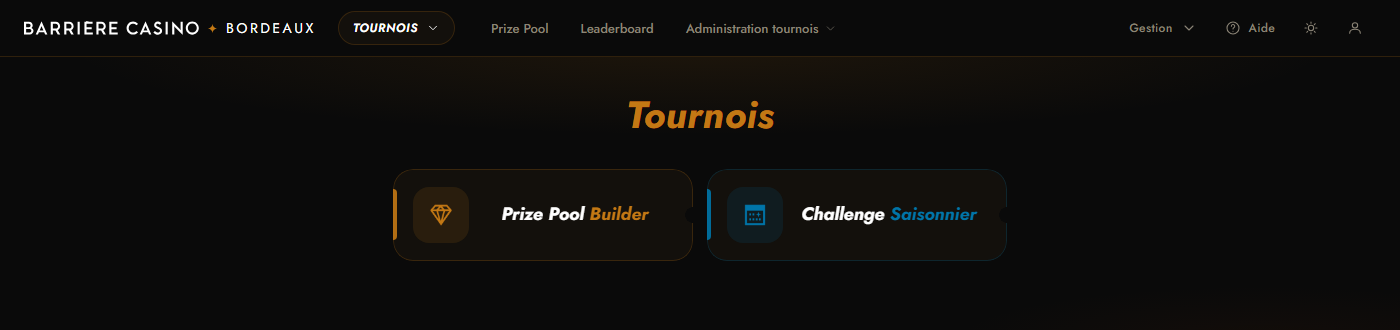
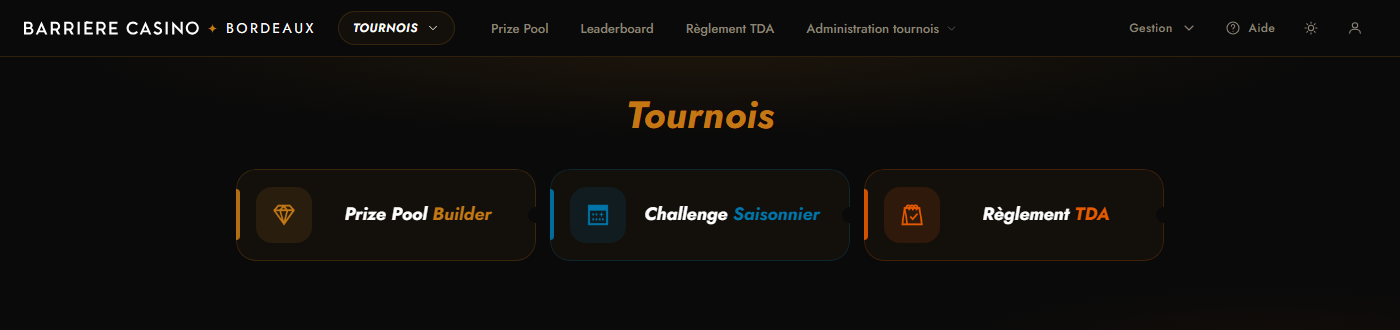
feat(aide): guides du reglement TDA
Deux guides (consulter le reglement, rechercher) et deux entrees de depannage
dans l'espace Tournois, bouton ? de la page TDA, captures generees avec une
edition fictive (aucun texte du vrai reglement dans le depot public).
Captures de l'accueil Tournois et du menu refaites (nouvelle tuile et entree de barre).

Changed region(s): [[0.1536, 0.5455, 0.7986, 0.7576], [0.4914, 0.0606, 0.6757, 0.1212]]

diff --git a/aide/aide_guides.js b/aide/aide_guides.js
@@ -21,19 +21,20 @@ var AIDE_GUIDES = [
   {
     id: 'tournois-pour-commencer', space: 'tournois', panel: 'tournois',
     title: 'Pour commencer',
-    intro: "L'espace Tournois réunit les outils des tournois de poker : le calcul du prize pool, le challenge saisonnier et, pour les personnes qui en ont l'accès, l'administration (déclarations, courriers, extras, calendrier).",
+    intro: "L'espace Tournois réunit les outils des tournois de poker : le calcul du prize pool, le challenge saisonnier, le règlement TDA et, pour les personnes qui en ont l'accès, l'administration (déclarations, courriers, extras, calendrier).",
     steps: [
       {
-        title: "Les deux outils de l'espace",
-        text: "<p>La page d'accueil de l'espace propose deux outils.</p><ul>"
+        title: "Les outils de l'espace",
+        text: "<p>La page d'accueil de l'espace propose trois outils.</p><ul>"
           + "<li><b>Prize Pool Builder</b> : prépare la répartition des gains d'un tournoi et imprime le tableau.</li>"
-          + "<li><b>Challenge Saisonnier</b> : saisit les résultats de chaque tournoi et tient le classement de la saison.</li></ul>"
+          + "<li><b>Challenge Saisonnier</b> : saisit les résultats de chaque tournoi et tient le classement de la saison.</li>"
+          + "<li><b>Règlement TDA</b> : le règlement du Poker TDA, à consulter et à interroger par une recherche.</li></ul>"
           + "<p>Vous ne voyez que les outils auxquels votre compte donne accès.</p>",
         imgs: [{ src: 'captures/tn_accueil.png', alt: "La page d'accueil de l'espace Tournois" }],
       },
       {
         title: "La barre de navigation",
-        text: "<p>Dans la barre du haut, <b>Prize Pool</b> et <b>Leaderboard</b> ouvrent les deux outils. Le menu <b>Administration tournois</b> regroupe quatre pages : <b>Déclarations</b>, <b>Générateur de courrier</b>, <b>Gestion des Extras</b> et <b>Calendrier &amp; barèmes</b>.</p>"
+        text: "<p>Dans la barre du haut, <b>Prize Pool</b>, <b>Leaderboard</b> et <b>Règlement TDA</b> ouvrent les trois outils. Le menu <b>Administration tournois</b> regroupe quatre pages : <b>Déclarations</b>, <b>Générateur de courrier</b>, <b>Gestion des Extras</b> et <b>Calendrier &amp; barèmes</b>.</p>"
           + "<p>Le bouton <b>Aide</b> ouvre le guide de la page où vous êtes.</p>",
         imgs: [{ src: 'captures/tn_menu_admin.png', alt: "Le menu Administration tournois dans la barre de navigation" }],
       },
@@ -167,6 +168,80 @@ var AIDE_GUIDES = [
         title: "Consulter une autre saison",
         text: "<p>La saison court du 1er novembre au 31 octobre. Elle est reconnue toute seule d'après la date des résultats : la suivante démarre avec le premier tournoi daté du 1er novembre, et les points comme la cagnotte repartent de zéro.</p>"
           + "<p>À gauche de la barre d'onglets, un sélecteur permet de revenir sur les saisons précédentes (elles apparaissent dès qu'elles ont des résultats). À côté, un libellé indique si la saison est en cours, terminée ou clôturée.</p>",
+        imgs: [],
+      },
+    ],
+  },
+
+  {
+    id: 'tournois-tda', space: 'tournois', panel: 'tda',
+    title: 'Consulter le règlement TDA',
+    intro: "Le règlement du Poker TDA est consultable dans l'application : les règles, les procédures recommandées et le glossaire, avec des renvois cliquables entre les règles. Sur les captures de ce guide, les textes sont des exemples fictifs.",
+    steps: [
+      {
+        title: "Ouvrir le règlement",
+        text: "<p>Dans la barre du haut, <b>Règlement TDA</b> ouvre la page (ou la tuile de l'accueil de l'espace Tournois). Trois onglets : <b>Règles</b>, <b>Procédures</b> et <b>Glossaire</b>.</p>"
+          + "<p>Le sommaire de l'onglet est à gauche : cliquez sur une règle pour la lire. La barre de recherche, sous les onglets, a son propre guide.</p>",
+        imgs: [{ src: 'captures/tda_sommaire.png', alt: "La page du règlement TDA avec les onglets, la recherche et le sommaire des règles" }],
+      },
+      {
+        title: "Lire une règle",
+        text: "<p>La règle s'affiche à droite, avec ses points repérés par une lettre (A, B, C...) et ses remarques sur un fond distinct. Les <b>exemples d'illustration</b> de la règle sont en dessous : cliquez sur un exemple pour le déplier.</p>"
+          + "<p>Les boutons <b>Précédente</b> et <b>Suivante</b>, en bas, passent à la règle voisine ; <b>Sommaire</b>, en haut, revient à la liste.</p>",
+        imgs: [{ src: 'captures/tda_regle.png', alt: "Une règle avec ses points, une remarque et un exemple d'illustration replié" }],
+      },
+      {
+        title: "Procédures et glossaire",
+        text: "<p>L'onglet <b>Procédures</b> contient les procédures recommandées par le TDA, lues de la même façon que les règles. L'onglet <b>Glossaire</b> explique les termes du jeu, classés par groupe.</p>",
+        imgs: [{ src: 'captures/tda_glossaire.png', alt: "L'onglet Glossaire, termes classés par groupe" }],
+      },
+      {
+        title: "Suivre un renvoi",
+        text: "<p>Quand un texte cite une autre règle (par exemple « règle 47-B »), la mention est soulignée en couleur : un clic ouvre cette règle et met en évidence le point cité. <b>Voir exemples</b> ouvre les exemples de la règle en cours.</p>"
+          + "<p>Le bouton « retour » de votre navigateur ramène à la règle d'où vous veniez.</p>",
+        imgs: [],
+      },
+      {
+        title: "Comprendre un terme",
+        text: "<p>Les mots du glossaire sont soulignés en pointillés dans le texte. Un clic affiche leur définition dans une bulle, avec un lien <b>Voir au glossaire</b>. Cliquez ailleurs ou appuyez sur Échap pour la fermer.</p>",
+        imgs: [{ src: 'captures/tda_terme.png', alt: "La définition d'un terme affichée dans une bulle" }],
+      },
+      {
+        title: "Un renvoi marqué d'un point d'interrogation",
+        text: "<p>Dans la traduction française, quelques renvois citent un numéro qui semble erroné. Ils sont signalés par un petit <b>?</b> : un clic explique le doute et propose la règle probable. En cas de doute sur un point, le texte officiel du TDA, en anglais, fait foi.</p>",
+        imgs: [{ src: 'captures/tda_renvoi.png', alt: "La bulle d'un renvoi à vérifier, avec un lien vers la règle probable" }],
+      },
+      {
+        title: "Sur téléphone et tablette",
+        text: "<p>La page s'adapte à l'écran. Sur un petit écran, le sommaire occupe toute la page : touchez une règle pour la lire, puis <b>Sommaire</b> pour revenir à la liste.</p>",
+        imgs: [{ src: 'captures/tda_mobile.png', alt: "Une règle affichée sur un écran de téléphone" }],
+      },
+    ],
+  },
+
+  {
+    id: 'tournois-tda-recherche', space: 'tournois', panel: 'tda',
+    title: 'Rechercher dans le règlement',
+    intro: "La barre de recherche du règlement TDA trouve un mot, une question ou un numéro de règle dans les règles, les procédures, les exemples et le glossaire.",
+    steps: [
+      {
+        title: "Lancer une recherche",
+        text: "<p>Tapez dans la barre <b>Rechercher un mot ou un numéro</b> (la touche <b>/</b> y amène le curseur). Les résultats s'affichent en direct, rangés par partie : <b>Règles</b>, <b>Procédures recommandées</b>, <b>Exemples d'illustration</b> et <b>Glossaire</b>. Les mots cherchés sont surlignés dans un extrait.</p>",
+        imgs: [{ src: 'captures/tda_recherche.png', alt: "Les résultats d'une recherche, rangés par partie, avec les mots surlignés" }],
+      },
+      {
+        title: "Aller directement à une règle",
+        text: "<p>Pour une règle dont vous connaissez le numéro, tapez-le : <b>45</b> ouvre la règle 45, <b>55-A</b> son point A, <b>RP-5</b> la procédure recommandée 5. Appuyez sur Entrée pour l'ouvrir.</p>",
+        imgs: [],
+      },
+      {
+        title: "Écrire comme on parle",
+        text: "<p>Les accents et les majuscules n'ont pas d'importance, et une petite faute de frappe est pardonnée. Les termes anglais usuels (raise, call, fold, all-in) retrouvent les règles écrites en français. Vous pouvez aussi taper une question entière : le règlement renvoie les règles qui contiennent le plus de vos mots.</p>",
+        imgs: [],
+      },
+      {
+        title: "Ouvrir un résultat et revenir",
+        text: "<p>Cliquez sur un résultat (ou appuyez sur Entrée pour ouvrir le premier) : la règle s'ouvre avec vos mots surlignés. Le bouton « retour » du navigateur revient aux résultats. <b>Échap</b> efface la recherche.</p>",
         imgs: [],
       },
     ],
@@ -383,6 +458,16 @@ var AIDE_GUIDES = [
       {
         title: "La déclaration est vide ou incomplète",
         text: "<p>Ouvrez <b>Réglages</b> : un jour décoché dans <b>Actif</b> n'apparaît pas. Pour un tournoi exceptionnel ou une annulation, passez par <b>Ajout/Modifications</b>. Un total des annexes différent de 100 % s'affiche en rouge dans l'onglet Annexes.</p>",
+        imgs: [],
+      },
+      {
+        title: "Le règlement TDA ne se charge pas",
+        text: "<p>« Le règlement n'a pas pu être chargé » : vérifiez la connexion, puis rechargez la page. Si le message « Aucune édition du règlement n'est disponible » s'affiche, prévenez l'administrateur : le texte n'est pas activé.</p>",
+        imgs: [],
+      },
+      {
+        title: "La recherche du règlement ne trouve rien",
+        text: "<p>Essayez un mot plus court ou le numéro de la règle (par exemple <b>45</b>). Les accents et les majuscules n'ont pas d'importance. Le guide « Rechercher dans le règlement » détaille ce que la recherche comprend.</p>",
         imgs: [],
       },
       {

diff --git a/aide/outils/donnees_fictives.js b/aide/outils/donnees_fictives.js
@@ -176,4 +176,52 @@ function entrainement() {
   return { croupiers: croupiers.map(function (c) { return { id: c.id, label: c.label }; }), sessions: sessions };
 }
 
-module.exports = { planning: planning, octimeTsv: octimeTsv, entrainement: entrainement, joueurs: joueurs, saison: saison, extras: extras, encadrement: encadrement, courriersGabarits: courriersGabarits };
+/** Règlement TDA fictif pour les captures : AUCUN texte du vrai règlement (le dépôt est public). Format de la table tda_blocs.
+ *  Dans un texte, {r3/B|règle 3-B} devient un renvoi (cible r3, point B) dont le libellé est « règle 3-B ». */
+function tda() {
+  const el = function (t, n, texte, extra) {
+    let out = '', renvois = [], pos = 0, m;
+    const re = /\{([a-z0-9_]+)(?:\/([A-Z]))?\|([^}]+)\}/g;
+    while ((m = re.exec(texte))) {
+      out += texte.slice(pos, m.index); const a = out.length; out += m[3];
+      const r = { a: a, b: out.length, cible: m[1], sous: m[2] || null };
+      if (extra && extra.verifier) r.verifier = extra.verifier;
+      renvois.push(r); pos = m.index + m[0].length;
+    }
+    out += texte.slice(pos);
+    const e = { t: t, texte: out }; if (n) e.n = n; if (renvois.length) e.renvois = renvois;
+    return e;
+  };
+  const regle = function (num, section, titre, elements) { return { id: 'r' + num, kind: 'regle', numero: String(num), section: section, titre: titre, ordre: num, data: { elements: elements } }; };
+  const blocs = [
+    regle(1, 's1', 'Exemple de règle simple', [el('p', null, "Texte d'exemple pour illustrer une règle courte. Il n'a aucune valeur : seul le règlement officiel fait foi.")]),
+    regle(2, 's1', 'Exemple de règle avec renvoi', [
+      el('pt', 'A', "Texte d'exemple : une phrase peut renvoyer à une autre règle, comme ici la {r3/B|règle 3-B}. Un clic sur le renvoi ouvre la règle et surligne le point."),
+      el('pt', 'B', "Un mot du glossaire, comme blind ou tapis, est souligné : un clic affiche sa définition."),
+    ]),
+    regle(3, 's2', 'Exemple de règle en plusieurs points', [
+      el('pt', 'A', "Premier point d'exemple, à lire avec la {r2/A|règle 2-A}. Voir exemples."),
+      el('pt', 'B', "Deuxième point d'exemple : le joueur annonce son action avant le flop. Les points sont repérés par une lettre."),
+      el('note', null, "Note d'exemple : les remarques du règlement sont présentées sur un fond distinct."),
+      el('pt', 'C', "Troisième point d'exemple, avec un showdown fictif."),
+    ]),
+    regle(4, 's2', 'Exemple de règle avec renvoi à vérifier', [
+      el('p', null, "Texte d'exemple : ce renvoi vers la {r1|règle 1}", { verifier: { note: "Le numéro cité dans la traduction semble erroné : ce renvoi est signalé pour vérification.", attendu: 'r3' } }),
+    ]),
+    { id: 'ex_3_1', kind: 'exemple', numero: '3', section: 'ex', titre: "Exemple d'illustration de la règle 3", ordre: 20, data: { regle: '3', elements: [el('p', null, "Exemple fictif : joueur-A annonce son action, joueur-B répond. Les exemples se replient et se déplient.")] } },
+    { id: 'rp_intro', kind: 'rp_intro', numero: '', section: 'rp', titre: 'Procédures recommandées (exemple)', ordre: 30, data: { elements: [el('p', null, "Texte d'introduction fictif des procédures recommandées. Voir la {r1|règle 1}.")] } },
+    { id: 'rp1', kind: 'rp', numero: 'RP-1', section: 'rp', titre: 'Exemple de procédure', ordre: 31, data: { elements: [el('p', null, "Texte d'exemple d'une procédure recommandée."), el('pt', 'A', "Premier point d'exemple de la procédure."), el('pt', 'B', "Second point d'exemple de la procédure.")] } },
+    { id: 'rp2', kind: 'rp', numero: 'RP-2', section: 'rp', titre: "Autre exemple de procédure", ordre: 32, data: { elements: [el('p', null, "Autre texte d'exemple, à la suite de la première procédure.")] } },
+  ];
+  const termes = [['Blind', 'Mise forcée posée avant la distribution.'], ['Flop', 'Les trois premières cartes communes.'], ['Showdown', 'Abattage des mains en fin de partie.'], ['Tapis', 'Mise de tous ses jetons (all-in).']];
+  termes.forEach(function (t, i) { blocs.push({ id: 'g_' + (i + 1), kind: 'glossaire', numero: '', section: 'gl', titre: t[0], ordre: 40 + i, data: { groupe: 'Termes de jeu', definition: t[1] } }); });
+  return {
+    edition: { id: 'exemple', libelle: "Règles d'exemple", date_publication: '2026-01-01', traduction: 'Traducteur fictif', active: true,
+      introduction: "Édition fictive : ces textes illustrent l'aide, ils ne sont pas ceux du règlement.",
+      mention: 'TDA rules used by permission of the Poker TDA, Copyright 2026, http://www.pokertda.com, All rights reserved.',
+      sections: [{ id: 's1', titre: 'Concepts généraux', ordre: 1 }, { id: 's2', titre: 'Mises et relances', ordre: 2 }] },
+    blocs: blocs,
+  };
+}
+
+module.exports = { tda: tda, planning: planning, octimeTsv: octimeTsv, entrainement: entrainement, joueurs: joueurs, saison: saison, extras: extras, encadrement: encadrement, courriersGabarits: courriersGabarits };

diff --git a/aide/outils/captures.js b/aide/outils/captures.js
@@ -72,6 +72,11 @@ getTrainingRanking:async function(g,lv,min){var rows=U.map(function(c){var l=of(
 getTrainingTablesBest:async function(r){return U.map(function(c){var l=of(c.id,'roulette-tables').filter(function(s){return !r||s.meta.ratio===r});if(!l.length)return null;var ok=l.filter(function(s){return s.correct===s.total});
  return{user_id:c.id,user_label:c.label,best_ms:ok.length?Math.min.apply(null,ok.map(function(s){return s.meta.elapsedMs})):null,perfect_runs:ok.length,sessions:l.length,last_at:l[0].started_at}}).filter(Boolean).sort(function(a,b){return (a.best_ms===null)-(b.best_ms===null)||a.best_ms-b.best_ms})},
 getTrainingWeakPoints:async function(g,u){return(WEAK[g]||[]).map(function(r){return{facet:r[0],value:r[1],attempts:r[2],errors:r[3]}})}};})();</script>`;
+// Règlement TDA : édition fictive (aucun texte du vrai règlement dans le dépôt public), administrateur ; rien n'est écrit
+const isTda = function (c) { return c.page.indexOf('tda/') === 0; };
+const BASE_TDA = `<script>(function(){var D=${JSON.stringify(data.tda())};var nop=async function(){};
+window.SB={getSession:async function(){return{user:{id:'u',email:'demo@example.com',user_metadata:{role:'admin',first_name:'Démo',last_name:'Fictif'},app_metadata:{role:'admin'}}}},getRoles:async function(){return[]},signOut:nop,
+getTdaActive:async function(){return JSON.parse(JSON.stringify({edition:D.edition,blocs:D.blocs}))}};})();</script>`;
 // Tirage aléatoire fixé (graine propre à chaque capture) : les questions affichées sont toujours les mêmes
 const SEED = function (n) { return `<script>(function(){var a=${n};Math.random=function(){a|=0;a=a+0x6D2B79F5|0;var t=Math.imul(a^a>>>15,1|a);t=t+Math.imul(t^t>>>7,61|t)^t;return((t^t>>>14)>>>0)/4294967296}})();</script>`; };
 
@@ -192,11 +197,23 @@ const CAPTURES_TR = [
 ];
 CAPTURES.push.apply(CAPTURES, CAPTURES_TR);
 
+// ── Règlement TDA (texte fictif) ──
+const CAPTURES_TDA = [
+  { nom: 'tda_sommaire', page: 'tda/tda.html', w: 1180, h: 760, actions: '', css: '*{transition:none!important}' },
+  { nom: 'tda_regle', page: 'tda/tda.html', w: 1180, h: 800, actions: "location.hash='#r3';", css: NU },
+  { nom: 'tda_terme', page: 'tda/tda.html', w: 1180, h: 470, actions: "location.hash='#r2';setTimeout(function(){document.querySelector('.td-terme').click()},500);", css: NU },
+  { nom: 'tda_renvoi', page: 'tda/tda.html', w: 1180, h: 470, actions: "location.hash='#r4';setTimeout(function(){document.querySelector('.td-verif').click()},500);", css: NU },
+  { nom: 'tda_recherche', page: 'tda/tda.html', w: 1180, h: 760, actions: "location.hash='#q=exemple';var q=document.getElementById('td-q');q.value='exemple';", css: NU },
+  { nom: 'tda_glossaire', page: 'tda/tda.html', w: 1180, h: 560, actions: "location.hash='#glossaire';", css: NU },
+  { nom: 'tda_mobile', page: 'tda/tda.html', w: 390, h: 820, actions: "location.hash='#r3';", css: NU },
+];
+CAPTURES.push.apply(CAPTURES, CAPTURES_TDA);
+
 function buildPage(c) {
   let h = fs.readFileSync(path.join(ROOT, c.page), 'utf8');
   h = h.replace(/<script src="https:\/\/cdn\.jsdelivr\.net\/npm\/@supabase\/supabase-js@2"><\/script>\s*/, '')
-    .replace(/<script src="[^"]*supabase\.js"><\/script>/, function () { return c.page.indexOf('break_list/') === 0 ? BASE : isTr(c) ? BASE_TR : BASE_TN; })
-    .replace('<head>', '<head><script>history.replaceState(null,"","/' + c.page + '");</script>' + FIGE + (c.page.indexOf('break_list/') === 0 ? '' : isTr(c) ? SEED(c.seed || 7) : SEED_TN))   // l'adresse reprend le vrai nom de la page : la barre reconnaît l'espace courant
+    .replace(/<script src="[^"]*supabase\.js"><\/script>/, function () { return c.page.indexOf('break_list/') === 0 ? BASE : isTr(c) ? BASE_TR : isTda(c) ? BASE_TDA : BASE_TN; })
+    .replace('<head>', '<head><script>history.replaceState(null,"","/' + c.page + '");</script>' + FIGE + (c.page.indexOf('break_list/') === 0 || isTda(c) ? '' : isTr(c) ? SEED(c.seed || 7) : SEED_TN))   // l'adresse reprend le vrai nom de la page : la barre reconnaît l'espace courant
     .replace('</head>', '<style>' + c.css + '</style></head>')
     .replace('</body>', '<script>window.addEventListener("load",function(){setTimeout(function(){' + c.actions + '},900)});</script></body>');
   const file = path.join(path.dirname(path.join(ROOT, c.page)), '_qa_aide_' + c.nom + '.html');

diff --git a/shared/nav.js b/shared/nav.js
@@ -104,6 +104,7 @@ const NAV = (function () {
     'tournois': 'tournois-pour-commencer',
     'prize_pool/prize_pool.html': 'tournois-prize-pool',
     'leaderboard/leaderboard.html': 'tournois-classement',
+    'tda/tda.html': 'tournois-tda',
     'admin/declaration/declaration.html': 'tournois-declaration',
     'admin/declaration/courriers.html': 'tournois-courriers',
     'admin/extras/extras.html': 'tournois-extras',

diff --git a/CONTEXT.md b/CONTEXT.md
@@ -321,7 +321,9 @@ Le règlement du Poker TDA (bible des règles du tournoi de poker, mise à jour 
 - **Consultation (étape 2, `tda/tda.html`)** : trois onglets `.seg` (Règles, Procédures, Glossaire). Tout est dans le hash : `#r45` (règle), `#r47/B` (point B, surligné), `#r45/exemples` (ouvre les exemples), `#rp5`, `#g_8` (terme), `#regles` / `#procedures` / `#glossaire`. Ordinateur (≥ 900 px) : sommaire fixe à gauche, texte à droite ; téléphone et tablette : le sommaire occupe l'écran, une règle ouverte le remplace avec un bouton « Sommaire ». Exemples d'illustration repliables sous la règle qu'ils illustrent (rattachés à son numéro seul : `55-A-1` va sous la règle 55). Renvois = liens ; renvoi « à vérifier » = lien + bouton « ? » (info-bulle avec la note et un lien vers la règle probablement visée). Termes du glossaire soulignés en pointillé dans le texte (info-bulle + lien vers le glossaire) ; jamais TD, TDA, M, ni les termes de 1 à 2 lettres sauf SA, BB, SB. Marqueurs du PDF : « § » = note encadrée (carré), « v » = précision (losange), sans libellé car le sens exact n'est pas dans le document. Mention du TDA obligatoire en bas de page, avec lien actif. `tda_rendu.test.js` vérifie que le texte affiché est identique au texte importé (442 textes de l'édition 2026), que chaque renvoi existant devient un lien et que le texte est échappé.
 - **Recherche (étape 3, `tda/tda_recherche.js`)** : champ sous les onglets, résultats groupés (Règles, Procédures, Exemples, Glossaire) avec extrait surligné ; adresse `#q=...` (le retour arrière revient aux résultats ; ouvrir un résultat surligne les mots trouvés dans la règle). Insensible aux accents et à la casse, tous les mots doivent se trouver (sinon, question tapée en phrase : les passages qui contiennent au moins la moitié des mots), tolérante aux fautes (1 lettre pour 5 lettres ou plus, 2 pour 9 ou plus), même racine (« minimum » trouve « minimale »), équivalents français / anglais du jeu (liste `SYNONYMES` dans le fichier : raise = relance, fausse donne = misdeal, string bet, OOT...) ; à enrichir avec les floors. Accès direct par numéro : `45`, `55-A` (point A), `RP-5`, `rp 10 h`. Raccourcis : `/` met le curseur dans le champ, Échap le vide, Entrée ouvre le premier résultat. 100 recherches < 1 s sur l'édition 2026.
 - **Pas de favoris** : essayés puis retirés le 2026-10-14 (onglet Favoris jugé peu pratique, puis barre de pastilles jugée peu pertinente). La table `tda_favoris` a été supprimée de la base (elle était vide) et son fichier de migration du dépôt. Piste si le besoin revient : accès rapide aux règles récemment consultées plutôt que des favoris à gérer à la main.
-- **Reste à faire** : étape 4 « situations » (saisies par les floors et le responsable tournoi dans l'application, pas par le développeur), étape 5 guide d'aide, changelog, release (hors connexion en option).
+- **Jurisprudence : abandonnée le 2026-10-14** (cas proposés par les floors et validés par les MCD). Tout avait été construit puis retiré (PR #146 fermée, branche supprimée, tables `tda_cas` et `tda_sanctions` supprimées de la base, panel `tda-validation` retiré) : le besoin doit d'abord être précisé avec le responsable tournoi. Si elle revient, repartir de zéro avec une saisie minimale (faits, règles, sanction ; décision facultative).
+- **Version anglaise 1.1** (Poker TDA 1.1 du 21 septembre 2026, PDF avec redlines) : envisagée comme référence puis **abandonnée** (trop compliqué pour le gain, l'outil existant suffit). L'application reste sur la traduction française 1.0. La licence du TDA autorise l'usage « en tout ou partie » à condition d'afficher la mention avec un lien actif sur la même page (c'est le cas).
+- **Aide (étape 5)** : guides « Consulter le règlement TDA » et « Rechercher dans le règlement » (espace Tournois, droit `tda`, bouton « ? » de `tda/tda.html`), entrées de dépannage. **Captures avec une édition fictive** (`tda()` dans `aide/outils/donnees_fictives.js`) : jamais de texte du vrai règlement dans le dépôt public, même en image. Reste : changelog et release (une consultation hors connexion reste une option, non faite).
 
 ### Page Aide (`aide/`)
 Tutoriel de l'application pour les collègues moins à l'aise avec l'outil (demande du chef : former les MCD et lui-même). **Espaces documentés : Tournois, Training et Break list.** Vouvoiement.
@@ -331,7 +333,7 @@ Tutoriel de l'application pour les collègues moins à l'aise avec l'outil (dema
 - **Contenu** : `aide/aide_guides.js` (`AIDE_ESPACES`, `AIDE_GUIDES` : `{ id, space, panel, title, intro, steps: [{ title, text (HTML), imgs: [{ src, alt }] }] }`). Pour ajouter un guide, une entrée suffit ; pour un nouvel espace, l'ajouter à `AIDE_ESPACES` et à `HELP` dans `nav.js`.
 - **Captures** : `aide/captures/*.png`, **générées avec des données entièrement fictives** (aucun vrai nom) par `node aide/outils/captures.js [nom ...]` (Node et Chrome requis, variable `CHROME` si besoin ; données dans `aide/outils/donnees_fictives.js`, date figée au mercredi 14 octobre 2026 à 20 h). À refaire après toute modification d'un écran décrit dans un guide. L'outil lance un serveur local et Chrome sans interface ; **le serveur et Chrome doivent tourner dans des processus séparés** (appel asynchrone), sinon blocage.
 - **Guides de la Break list** (livrés) : Pour commencer, Importer le planning du mois, Présents et absents de la séance, Faire les départs, Régler les paramètres, Résolution des problèmes courants. **Ne décrivent pas l'extraction Octime elle-même** (hors application, choix de l'utilisateur : le guide commence au collage dans l'application). Le bouton « ? » ouvre le guide de la page courante si elle en a un (Planning, Paramètres), sinon celui de l'espace.
-- **Guides de l'espace Tournois** (livrés, 10) : Pour commencer, Préparer le prize pool, Saisir les résultats d'un tournoi, Consulter le classement et l'historique, Clôturer la saison (**réservé aux administrateurs** : champ `admin: true` du guide), Déclaration mensuelle, Générer les courriers, Gérer les extras, Calendrier et barèmes, Résolution des problèmes courants. Chaque guide a son droit (`prize-pool`, `leaderboard`, `admin-tournois`, `tournois`). Le bouton « ? » de chaque page de l'espace ouvre le guide correspondant. Le guide précédent / suivant reste dans le même espace.
+- **Guides de l'espace Tournois** (livrés, 12) : Pour commencer, Préparer le prize pool, Saisir les résultats d'un tournoi, Consulter le classement et l'historique, Consulter le règlement TDA, Rechercher dans le règlement (droit `tda`), Clôturer la saison (**réservé aux administrateurs** : champ `admin: true` du guide), Déclaration mensuelle, Générer les courriers, Gérer les extras, Calendrier et barèmes, Résolution des problèmes courants. Chaque guide a son droit (`prize-pool`, `leaderboard`, `admin-tournois`, `tournois`). Le bouton « ? » de chaque page de l'espace ouvre le guide correspondant. Le guide précédent / suivant reste dans le même espace.
 - **Captures de l'espace Tournois** : données fictives de `donnees_fictives.js` (joueurs, saison complète 2025 / 2026, extras, encadrement, gabarits de courriers). L'encadrement, les courriers et l'émargement sont injectés dans le `localStorage` de la page de capture (`decl_staff`, `courriers_tpl`, `extras_emarg_*`) car les valeurs par défaut de l'application contiennent de vrais noms : **ne jamais photographier ces pages sans cette injection**.
 - **Guides de l'espace Training** (livrés, 9) : Pour commencer, S'entraîner au Black Jack, Roulette : les calculs, Roulette : le tapis, S'entraîner à l'Ultimate Texas Hold'em, Suivre ses résultats, Suivre l'équipe (droit `training-suivi`), Configurer les modules (**administrateurs**), Résolution des problèmes courants. **Pas de règles de jeu** dans les guides (décision de l'utilisateur, « pour l'instant ») : seulement l'usage des modules.
 - **Captures de l'espace Training** : sessions de 8 croupiers fictifs (`entrainement()` dans `donnees_fictives.js`) ; les fonctions de suivi de la base (classement, activité, points faibles...) sont recalculées dans la page de capture à partir de ces sessions. Le tirage aléatoire (`Math.random`) est fixé par une graine propre à chaque capture, et les enchaînements automatiques et chronomètres sont figés (`FIGER`) pour photographier une question ou sa correction.
